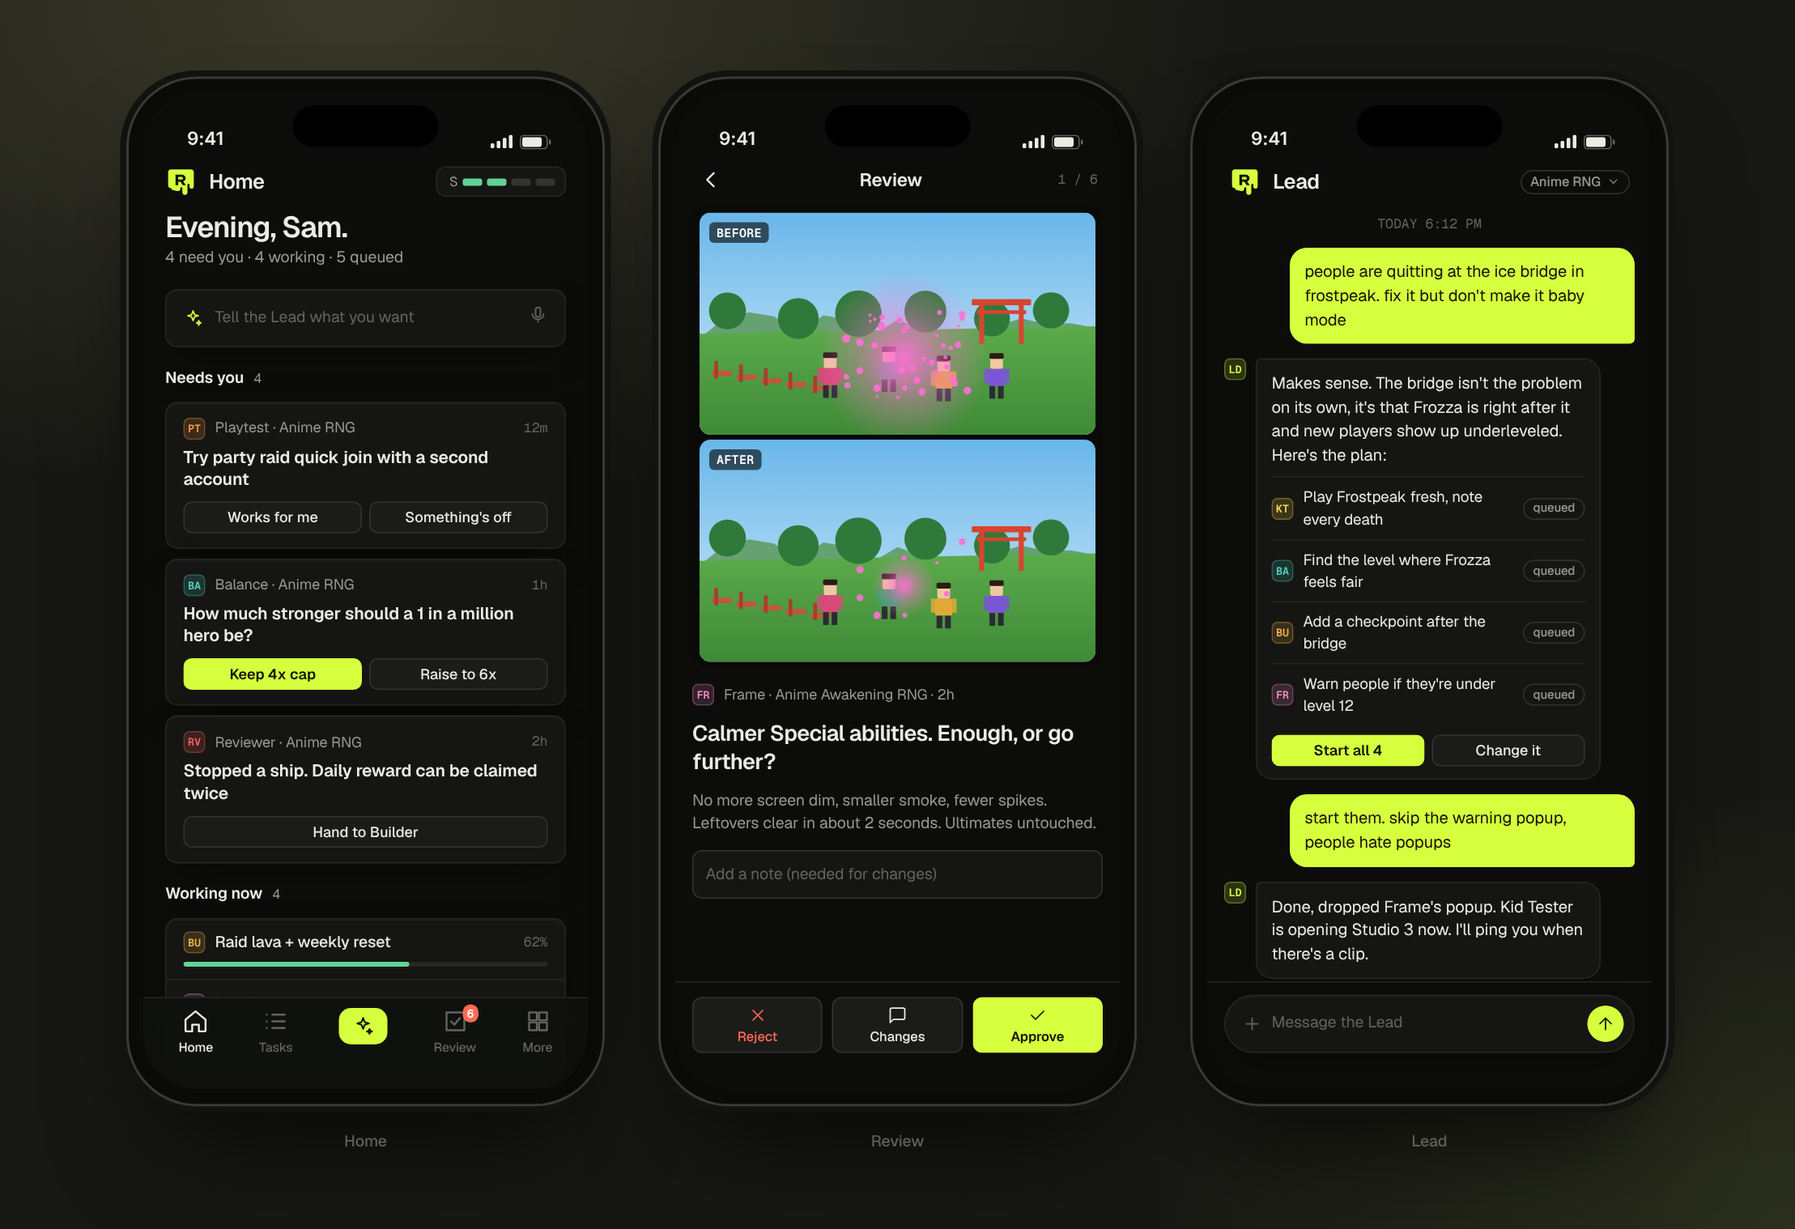
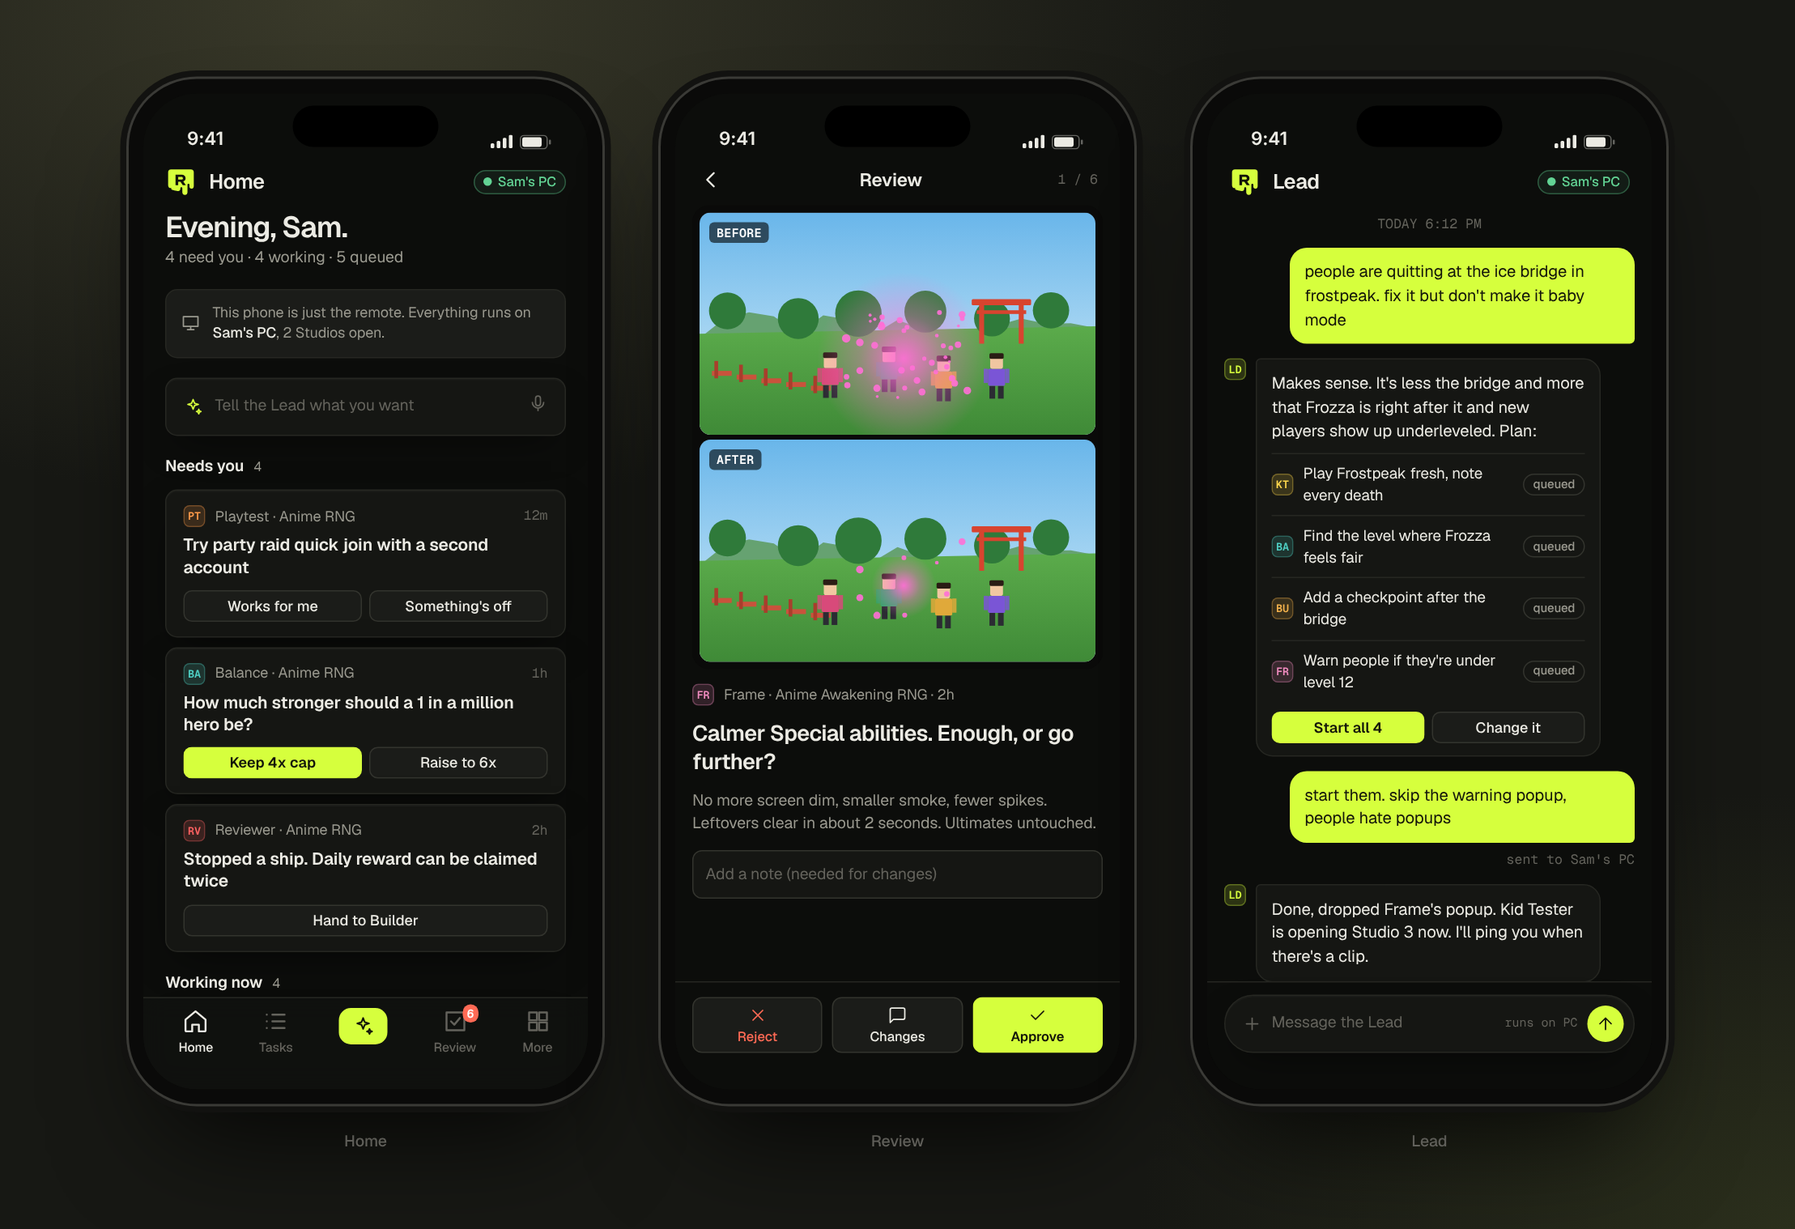
Mockups: computers and apps settings, playtest run, phone as remote
Claude-Session: https://claude.ai/code/session_01Rj7wvfXsp5qGivo9iQqRRG

diff --git a/design/mockups/ui.js b/design/mockups/ui.js
@@ -513,15 +513,15 @@ function market() {
 }
 
 /* ---------- Settings ---------- */
-function settings() {
-  const sub = ["Account and sync", "AI provider", "Keys", "Connectors", "Roblox Studio", "Notifications", "Look and feel"];
+function settings(o = {}) {
+  const sub = ["Account and sync", "Computers and apps", "AI provider", "Keys", "Connectors", "Roblox Studio", "Notifications", "Look and feel"];
   const tog = on => `<span style="width:34px;height:20px;border-radius:99px;background:${on ? "var(--accent)" : "var(--line-2)"};position:relative;flex:none;display:inline-block"><i style="position:absolute;top:2px;${on ? "right:2px" : "left:2px"};width:16px;height:16px;border-radius:99px;background:${on ? "var(--accent-ink)" : "var(--muted)"}"></i></span>`;
   const conn = (name, logoBg, letter, where, on, note) => `<div class="row" style="padding:12px 16px;gap:12px;border-top:1px solid var(--line)">
     <span style="width:30px;height:30px;border-radius:8px;background:${logoBg};display:grid;place-items:center;font-weight:700;color:#fff;font-size:13px;flex:none">${letter}</span>
     <div class="grow"><div style="font-weight:500">${name}</div><div class="muted" style="font-size:12px">${note}</div></div>
     <span class="pill ${where.startsWith("Not") ? "" : "ok"}">${where}</span>${tog(on)}</div>`;
   return `<div style="display:grid;grid-template-columns:200px 1fr;gap:32px;max-width:1180px">
-    <nav class="nav" style="padding-top:4px">${sub.map((s, i) => `<a class="${i === 3 ? "on" : ""}" style="height:32px">${s}</a>`).join("")}</nav>
+    <nav class="nav" style="padding-top:4px">${sub.map((s, i) => `<a class="${i === (o.on ?? 4) ? "on" : ""}" style="height:32px">${s}</a>`).join("")}</nav>
     <div style="display:flex;flex-direction:column;gap:20px">
       <div><h1 class="page">Settings</h1><p class="lede">Keys and connectors live here. Everything syncs to your account, so you only set it up once.</p></div>
 
@@ -544,7 +544,7 @@ function settings() {
         <div class="muted" style="font-size:12.5px;margin-top:2px">We look at what's already connected in Claude Code or Codex. Turn one on and the agents can use it. Nothing new gets installed.</div></div>
         ${conn("Figma", "#1e1e1e", "F", "Found in Claude Code", true, "Frame pulls frames and styles from your files when you link one in a task")}
         ${conn("GitHub", "#24292f", "G", "Found in Claude Code", true, "Builder pushes to inclined/anime-rng on a branch, never main")}
-        ${conn("Blender", "#e87d0d", "B", "Found in Claude Code", false, "Librarian can tweak and export models before they go to Studio")}
+        ${conn("Linear", "#5e6ad2", "L", "Found in Claude Code", false, "Producer files bugs from Reviewer and Playtest as Linear issues")}
         ${conn("Notion", "#2f2f2f", "N", "Not connected", false, "Connect it in Claude Code first, then hit Rescan")}
       </div>
 
@@ -566,6 +566,100 @@ function settings() {
   </div>`;
 }
 
+
+/* ---------- Settings: computers and apps ---------- */
+function settingsApps() {
+  const tog = on => `<span style="width:34px;height:20px;border-radius:99px;background:${on ? "var(--accent)" : "var(--line-2)"};position:relative;flex:none;display:inline-block"><i style="position:absolute;top:2px;${on ? "right:2px" : "left:2px"};width:16px;height:16px;border-radius:99px;background:${on ? "var(--accent-ink)" : "var(--muted)"}"></i></span>`;
+  const sub = ["Account and sync", "Computers and apps", "AI provider", "Keys", "Connectors", "Roblox Studio", "Notifications", "Look and feel"];
+  const comp = (icon, name, meta, role, roleCls, right, last) => `<div class="row" style="gap:14px;padding:14px 16px;${last ? "" : "border-bottom:1px solid var(--line)"}">
+    <span style="width:36px;height:36px;border-radius:9px;background:var(--raise);border:1px solid var(--line);display:grid;place-items:center;color:var(--muted)">${ic(icon)}</span>
+    <div class="grow"><div class="row" style="gap:8px"><b style="font-weight:600">${name}</b><span class="pill ${roleCls}" style="height:18px">${role}</span></div><div class="muted" style="font-size:12px;margin-top:2px">${meta}</div></div>${right}</div>`;
+  const app = (bg, letter, name, ver, path, who, on, how) => `<div class="row" style="gap:14px;padding:13px 16px;border-top:1px solid var(--line)">
+    <span style="width:34px;height:34px;border-radius:9px;background:${bg};display:grid;place-items:center;font-weight:700;color:#fff;font-size:14px;flex:none">${letter}</span>
+    <div style="width:260px"><div style="font-weight:500">${name} <span class="dim mono">${ver}</span></div><div class="mono dim trunc" style="font-size:10.5px;margin-top:2px">${path}</div></div>
+    <div class="grow muted" style="font-size:12px">${how}</div>
+    <div class="row" style="gap:3px;width:70px;justify-content:flex-end">${who.map(k => av(k, "sm")).join("")}</div>${tog(on)}</div>`;
+  return `<div style="display:grid;grid-template-columns:200px 1fr;gap:32px;max-width:1180px">
+    <nav class="nav" style="padding-top:4px">${sub.map((s, i) => `<a class="${i === 1 ? "on" : ""}" style="height:32px">${s}</a>`).join("")}</nav>
+    <div style="display:flex;flex-direction:column;gap:20px">
+      <div><h1 class="page">Computers and apps</h1><p class="lede">Agents run on one computer. Everything else, your phone included, is a remote that sends it work and shows you what's happening.</p></div>
+
+      <div class="card" style="overflow:hidden">
+        <div style="padding:14px 16px 12px;border-bottom:1px solid var(--line)" class="sec-h"><h3>Your computers</h3><span class="r">Signed in on 3</span></div>
+        ${comp("studio", "Sam's PC", "Windows 11 · Claude Code (Max) · 4 Studio slots · up 3 days", "Runs the agents", "acc", `<span class="row muted" style="gap:6px;font-size:12px"><span class="dot pulse"></span>Online, 4 busy</span>`)}
+        ${comp("studio", "MacBook Air", "macOS 15 · Claude Code (Max) · 2 Studio slots", "Backup", "", `<span class="muted" style="font-size:12px;margin-right:6px">Take over if the PC goes offline</span>${tog(true)}`)}
+        ${comp("phone", "iPhone 15", "Remote only. Nothing runs on the phone, it just sends tasks to Sam's PC", "Remote", "info", `<span class="row muted" style="gap:6px;font-size:12px"><span class="dot"></span>Seen 2m ago</span>`, true)}
+      </div>
+      <div class="row" style="gap:10px;padding:12px 14px;border-radius:10px;border:1px dashed var(--line-2);color:var(--muted);font-size:12.5px">${ic("cloud")}If Sam's PC is off, new tasks wait in the queue and start the second it's back. You'll get a ping if something's been waiting over an hour.</div>
+
+      <div class="card" style="overflow:hidden">
+        <div style="padding:14px 16px 12px"><div class="sec-h" style="margin:0"><h3>Apps the agents can use on Sam's PC</h3><span class="r">Scanned 4 min ago</span></div>
+        <div class="muted" style="font-size:12.5px;margin-top:2px">They open these like you would, do the work, and drop the result in Library. Turn off anything you don't want them touching.</div></div>
+        ${app("#e87d0d", "B", "Blender", "4.2", "C:\\Program Files\\Blender Foundation\\Blender 4.2", ["librarian", "scenic"], true, "Clean up and retopo models, bake textures, export .fbx straight into Studio")}
+        ${app("#7b4fd6", "A", "Aseprite", "1.3", "C:\\Program Files\\Aseprite", ["splash", "frame"], true, "Pixel icons, UI sprites and small animations")}
+        ${app("#31a8ff", "Ps", "Photoshop", "2025", "C:\\Program Files\\Adobe\\Adobe Photoshop 2025", ["splash"], false, "Thumbnails and store art. Off until you say so")}
+        ${app("#0d3b66", "Au", "Audacity", "3.6", "C:\\Program Files\\Audacity", ["librarian"], true, "Trim, normalize and loop sounds before upload")}
+        <div class="row" style="padding:12px 16px;border-top:1px solid var(--line);gap:10px"><button class="btn sm">${ic("plus", "width:14px;height:14px")}Add an app</button><span class="muted" style="font-size:12px">Point it at any program and write one line about what it's for. The agents figure out the rest.</span></div>
+      </div>
+    </div>
+  </div>`;
+}
+
+/* ---------- Playtest ---------- */
+function playtest() {
+  const marks = [[8, "ok"], [21, "ok"], [34, "warn"], [47, "ok"], [58, "bad"], [71, "ok"], [86, "bad"]];
+  const steps = [
+    ["0:00", "Spawned, read the tutorial popup in 3s", "ok"],
+    ["0:41", "Found the shovel, first dig worked", "ok"],
+    ["1:52", "Couldn't tell which rocks are diggable. Tried 6 before one worked", "warn"],
+    ["3:05", "Filled the backpack, walked back to sell", "ok"],
+    ["3:58", "Sell button hidden behind the chat on phone. Gave up after 40s", "bad"],
+    ["5:10", "Bought shovel #2 on PC run, dig speed felt the same", "ok"],
+    ["6:22", "Swamp gate says 'Need 500 Fossils' but nothing says where to get them", "bad"],
+  ];
+  const col = c => c === "bad" ? "var(--bad)" : c === "warn" ? "var(--warn)" : "var(--ok)";
+  return `
+  <div class="row" style="align-items:flex-end;margin-bottom:18px">
+    <div class="grow"><div class="row" style="gap:10px"><h1 class="page">Playtest run #14</h1><span class="pill">Dig Up a Dino</span></div>
+    <p class="lede" style="margin-top:4px">Kid Tester and Playtest played it fresh on phone and PC. Two places people will quit.</p></div>
+    <button class="btn">${ic("reload", "width:14px;height:14px")}Run again</button><button class="btn pri">Send both fixes to Builder</button>
+  </div>
+  <div style="display:grid;grid-template-columns:1fr 360px;gap:20px">
+    <div style="display:flex;flex-direction:column;gap:14px;min-width:0">
+      <div class="card" style="padding:10px;background:#0a0a09;border-color:#22231f">
+        <div style="display:grid;grid-template-columns:1.6fr 1fr;gap:6px">
+          ${thumb("dino", 31, { tag: "PC · PLAYTEST", hud: "FOSSILS 212", guys: 2, k: "pt1" })}
+          ${thumb("dino", 33, { tag: "PHONE · KID TESTER", guys: 1, k: "pt2", ar: "auto", style: "height:100%" })}
+        </div>
+        <div style="padding:12px 4px 4px">
+          <div style="position:relative;height:6px;border-radius:99px;background:#2a2a26"><i style="position:absolute;left:0;top:0;bottom:0;width:58%;border-radius:99px;background:#ecebe4"></i>
+          ${marks.map(([x, c]) => `<span style="position:absolute;left:${x}%;top:-4px;width:4px;height:14px;border-radius:2px;background:${col(c)}"></span>`).join("")}</div>
+          <div class="row" style="margin-top:8px;color:#8d8c84">${play}<span class="mono">3:58 / 6:50</span><span class="grow"></span><span class="mono">markers = where it struggled</span></div>
+        </div>
+      </div>
+      <div class="card" style="padding:6px 16px">
+        ${steps.map(([t, txt, c], i) => `<div class="row" style="gap:12px;padding:9px 0;align-items:flex-start;${i ? "border-top:1px solid var(--line)" : ""}"><span class="mono dim" style="width:34px;padding-top:1px">${t}</span><span style="width:8px;height:8px;border-radius:99px;background:${col(c)};margin-top:5px;flex:none"></span><span class="grow ${c === "ok" ? "muted" : ""}">${txt}</span>${c === "bad" ? `<button class="btn sm">Fix this</button>` : ""}</div>`).join("")}
+      </div>
+    </div>
+    <div style="display:flex;flex-direction:column;gap:14px">
+      <div class="card" style="padding:16px">
+        <div class="sec-h"><h3>How it read your game</h3></div>
+        ${[["Type", "Digging and collecting sim"], ["Goal it set", "Dig a full T-Rex, sell it, open the swamp"], ["Controls", "WASD, click to dig, E to sell, tap on phone"], ["Played as", "New player, phone + PC, 1 and 2 players"]].map(([k, v]) => `<div class="row" style="align-items:flex-start;gap:10px;padding:6px 0"><span class="muted" style="width:86px;flex:none;font-size:12px;padding-top:1px">${k}</span><span>${v}</span></div>`).join("")}
+        <div class="muted" style="font-size:12px;margin-top:8px;padding-top:10px;border-top:1px solid var(--line)">It reads your scripts and UI first, then plays. Obby, tycoon, RNG, shooter, horror, story, anything. If it can't work out the goal it asks you once and remembers.</div>
+      </div>
+      <div class="card" style="padding:16px">
+        <div class="sec-h"><h3>Next run</h3></div>
+        <div style="font-size:12px;font-weight:500;margin-bottom:6px">Devices</div>
+        <div class="row" style="gap:6px;margin-bottom:12px;flex-wrap:wrap"><span class="pill ok">${ic("phone", "width:12px;height:12px")}Phone</span><span class="pill ok">${ic("studio", "width:12px;height:12px")}PC</span><span class="pill">${ic("games", "width:12px;height:12px")}Controller</span><span class="pill">Tablet</span></div>
+        <div style="font-size:12px;font-weight:500;margin-bottom:6px">Players</div>
+        <div class="seg" style="margin-bottom:12px"><a>1</a><a class="on">2</a><a>4</a><a>8</a></div>
+        <div style="font-size:12px;font-weight:500;margin-bottom:6px">Tell it anything</div>
+        <div class="input" style="height:58px;align-items:flex-start;padding-top:8px;color:var(--dim)">e.g. skip the tutorial, go straight for the swamp</div>
+      </div>
+    </div>
+  </div>`;
+}
+
 /* ---------- Mobile ---------- */
 const sbar = `<div class="sb"><span>9:41</span><span class="ic"><svg width="18" height="11" viewBox="0 0 18 11"><rect x="0" y="7" width="3" height="4" rx="1" fill="currentColor"/><rect x="5" y="5" width="3" height="6" rx="1" fill="currentColor"/><rect x="10" y="2.5" width="3" height="8.5" rx="1" fill="currentColor"/><rect x="15" y="0" width="3" height="11" rx="1" fill="currentColor"/></svg><svg width="26" height="12" viewBox="0 0 26 12"><rect x=".5" y=".5" width="22" height="11" rx="3" fill="none" stroke="currentColor" opacity=".4"/><rect x="2" y="2" width="16" height="8" rx="1.6" fill="currentColor"/><rect x="24" y="4" width="1.6" height="4" rx=".8" fill="currentColor" opacity=".4"/></svg></span></div>`;
 const tabbar = on => `<div style="margin-top:auto;border-top:1px solid var(--line);background:color-mix(in srgb,var(--side) 92%,transparent);backdrop-filter:blur(10px);padding:8px 10px 26px;display:flex;justify-content:space-around">
@@ -576,9 +670,10 @@ const tabbar = on => `<div style="margin-top:auto;border-top:1px solid var(--lin
 const mHead = (title, right = "") => `<div class="row" style="padding:6px 18px 10px">${logo(26)}<b style="font-size:17px;font-weight:600;letter-spacing:-0.02em;margin-left:2px">${title}</b><div class="grow"></div>${right}</div>`;
 
 function mHome() {
-  return `${sbar}${mHead("Home", `<span class="slots" style="font-size:11px">S <i class="on"></i><i class="on"></i><i></i><i></i></span>`)}
+  return `${sbar}${mHead("Home", `<span class="pill ok" style="font-size:11px"><span class="dot"></span>Sam's PC</span>`)}
   <div style="padding:0 18px;overflow:hidden;display:flex;flex-direction:column;gap:16px">
     <div><h1 class="page" style="font-size:24px">Evening, Sam.</h1><div class="muted" style="margin-top:3px">4 need you · 4 working · 5 queued</div></div>
+    <div class="row" style="gap:10px;padding:10px 12px;border-radius:10px;background:var(--raise);border:1px solid var(--line);font-size:12px">${ic("studio", "color:var(--muted)")}<span class="grow muted">This phone is just the remote. Everything runs on <b style="color:var(--text);font-weight:500">Sam's PC</b>, 2 Studios open.</span></div>
     <div class="card" style="padding:12px 14px;display:flex;align-items:center;gap:10px;color:var(--dim)">${ic("lead", "color:var(--accent-text)")}Tell the Lead what you want<span style="margin-left:auto">${ic("mic")}</span></div>
     <div>
       <div class="sec-h"><h3>Needs you</h3><span class="c">4</span></div>
@@ -619,17 +714,17 @@ function mReview() {
 function mLead() {
   const msg = (me, html) => `<div style="display:flex;${me ? "justify-content:flex-end" : "gap:8px"}">${me ? "" : av("lead", "sm")}<div style="max-width:84%;padding:10px 12px;border-radius:14px;${me ? "background:var(--accent);color:var(--accent-ink);border-bottom-right-radius:4px" : "background:var(--panel);border:1px solid var(--line);border-top-left-radius:4px"};font-size:13.5px">${html}</div></div>`;
   const task = (k, t) => `<div class="row" style="gap:8px;padding:7px 0;border-top:1px solid var(--line)">${av(k, "sm")}<span class="grow" style="font-size:12.5px">${t}</span><span class="pill" style="height:18px;font-size:10px">queued</span></div>`;
-  return `${sbar}${mHead("Lead", `<span class="pill">Anime RNG ${ic("down", "width:11px;height:11px")}</span>`)}
+  return `${sbar}${mHead("Lead", `<span class="pill ok" style="font-size:11px"><span class="dot"></span>Sam's PC</span>`)}
   <div style="padding:4px 14px;display:flex;flex-direction:column;gap:12px;flex:1;overflow:hidden">
     <div class="mono dim" style="text-align:center">TODAY 6:12 PM</div>
     ${msg(true, "people are quitting at the ice bridge in frostpeak. fix it but don't make it baby mode")}
-    ${msg(false, `Makes sense. The bridge isn't the problem on its own, it's that Frozza is right after it and new players show up underleveled. Here's the plan:
+    ${msg(false, `Makes sense. It's less the bridge and more that Frozza is right after it and new players show up underleveled. Plan:
       <div style="margin-top:8px">${task("kid", "Play Frostpeak fresh, note every death")}${task("balance", "Find the level where Frozza feels fair")}${task("builder", "Add a checkpoint after the bridge")}${task("frame", "Warn people if they're under level 12")}</div>
       <div class="row" style="gap:6px;margin-top:8px"><button class="btn sm pri" style="flex:1;justify-content:center">Start all 4</button><button class="btn sm" style="flex:1;justify-content:center">Change it</button></div>`)}
-    ${msg(true, "start them. skip the warning popup, people hate popups")}
+    ${msg(true, "start them. skip the warning popup, people hate popups")}<div class="mono dim" style="text-align:right;margin-top:-6px">sent to Sam's PC</div>
     ${msg(false, "Done, dropped Frame's popup. Kid Tester is opening Studio 3 now. I'll ping you when there's a clip.")}
   </div>
-  <div style="padding:10px 14px 30px;border-top:1px solid var(--line)"><div class="row card" style="padding:8px 8px 8px 14px;border-radius:99px;gap:8px;color:var(--dim)">${ic("plus")}<span class="grow">Message the Lead</span><span style="width:30px;height:30px;border-radius:99px;background:var(--accent);color:var(--accent-ink);display:grid;place-items:center">${ic("up", "width:16px;height:16px")}</span></div></div>`;
+  <div style="padding:10px 14px 30px;border-top:1px solid var(--line)"><div class="row card" style="padding:8px 8px 8px 14px;border-radius:99px;gap:8px;color:var(--dim)">${ic("plus")}<span class="grow">Message the Lead</span><span class="mono" style="font-size:10px">runs on PC</span><span style="width:30px;height:30px;border-radius:99px;background:var(--accent);color:var(--accent-ink);display:grid;place-items:center">${ic("up", "width:16px;height:16px")}</span></div></div>`;
 }
 
 /* ---------- Frames ---------- */
@@ -655,6 +750,16 @@ const SHOTS = {
 
   "mac-app-market": { stage: "paper", w: 1560, h: 920, html: () => `<div class="window" style="width:1560px;height:920px">
     <div class="body">${shell("market", `<b>Market</b>`, market(), { mac: true, light: true })}</div></div>` },
+
+  "windows-app-apps": { stage: "win", w: 1560, h: 1000, html: () => `<div class="window win" style="width:1560px;height:1000px">
+    <div class="winbar">${logo(16)}<span class="ttl">RoSlop</span><div class="ctl">${winCtl}</div></div>
+    <div class="body">${shell("settings", `<b>Settings</b><span class="dim">·</span><span>Computers and apps</span>`, settingsApps(), { win: true })}</div></div>` },
+
+  "pc-site-playtest": { stage: "win", w: 1600, h: 1000, html: () => `<div class="window" style="width:1600px;height:1000px">
+    <div class="chrome"><div class="tabs"><div class="tab on">${logo(14)}<span>Playtest · RoSlop</span><span class="x">✕</span></div><span style="padding:0 10px 8px;color:#888">+</span>
+    <div class="ctl">${winCtl}</div></div>
+    <div class="bar2"><div class="navb">${ic("left")}${ic("right")}${ic("reload")}</div><div class="omni">${ic("lock", "width:13px;height:13px;color:#8a8a8f")}<span>roslop.app<span class="path">/games/dig-up-a-dino/playtest/14</span></span></div>${ic("user", "color:#8a8a8f")}</div></div>
+    <div class="body">${shell("games", `<span>Games</span>${ic("right", "width:13px;height:13px")}<span>Dig Up a Dino</span>${ic("right", "width:13px;height:13px")}<b>Playtest</b>`, playtest(), { win: true })}</div></div>` },
 
   "windows-app-settings": { stage: "win", w: 1560, h: 1060, html: () => `<div class="window win" style="width:1560px;height:1060px">
     <div class="winbar">${logo(16)}<span class="ttl">RoSlop</span><div class="ctl">${winCtl}</div></div>
